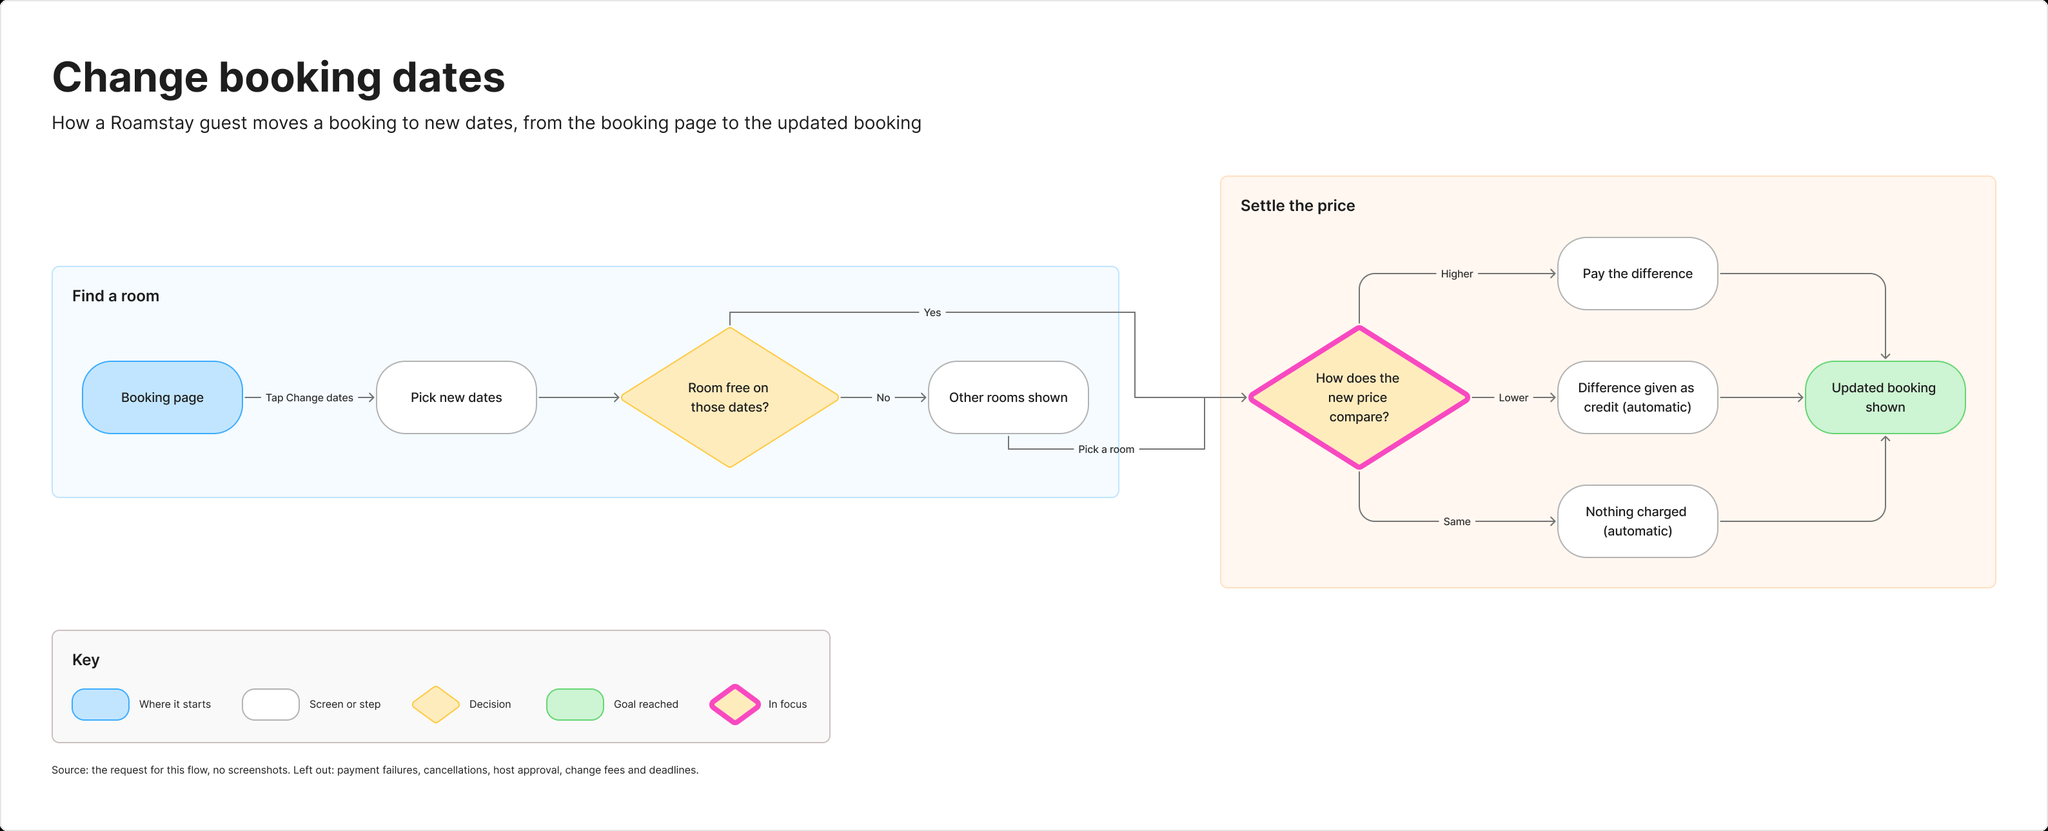
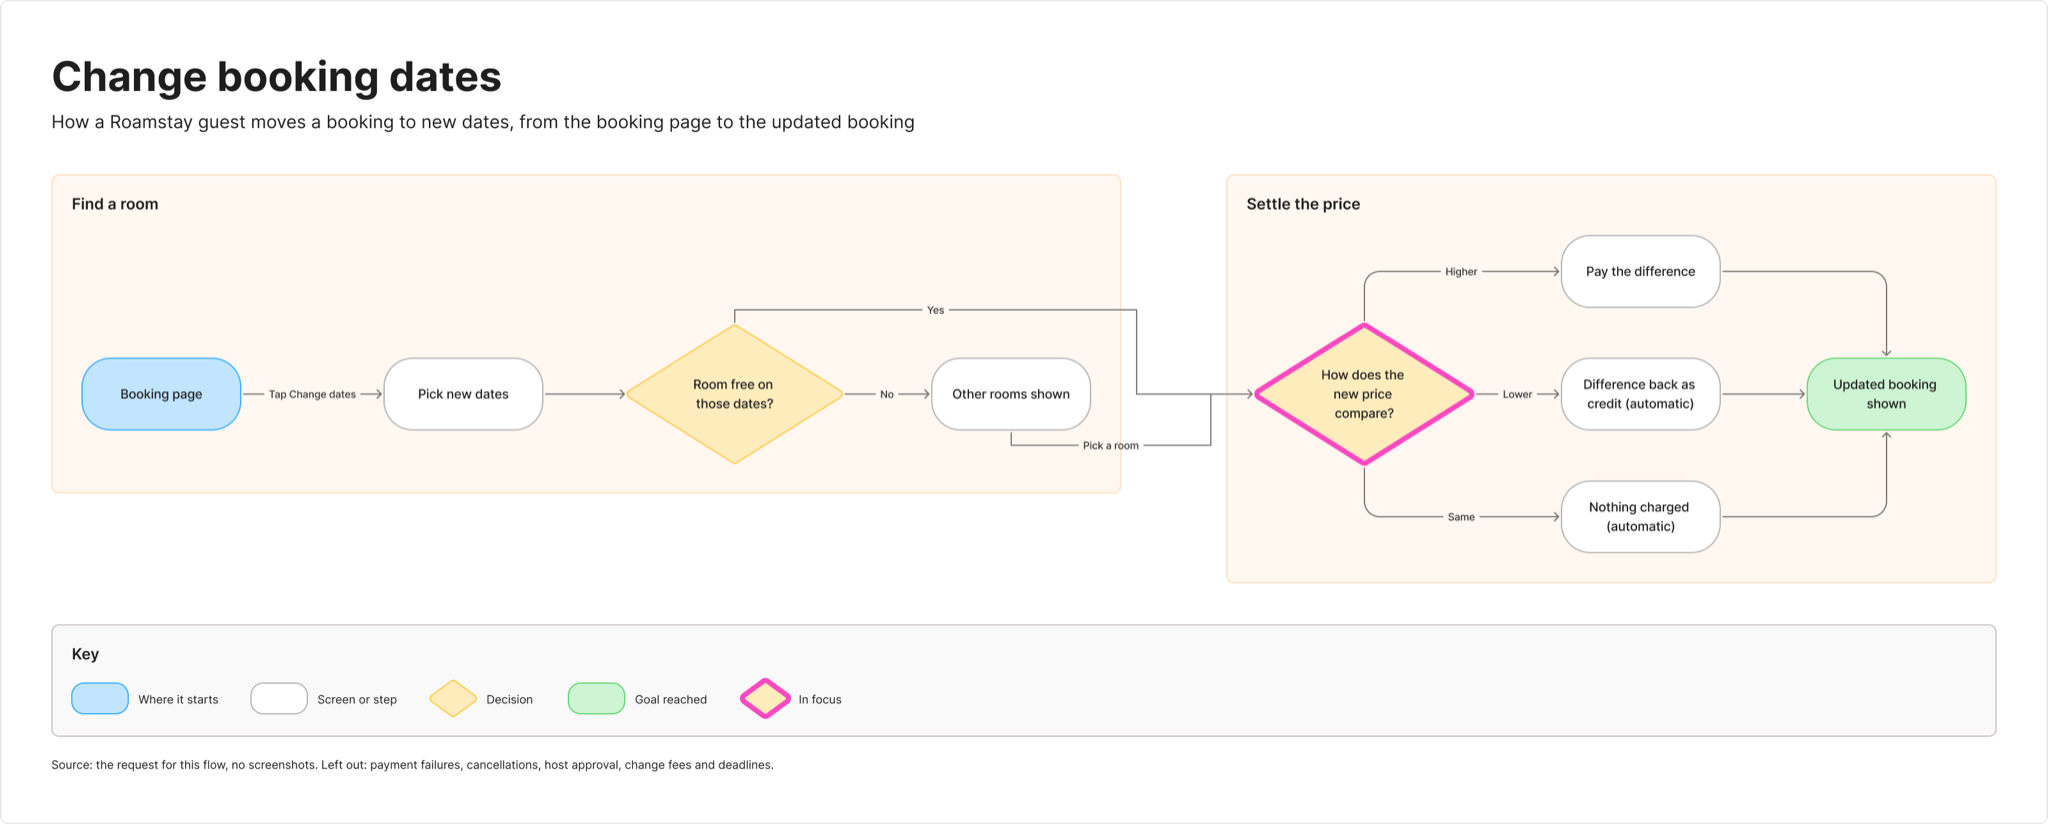
docs(product-owner): redraw four FigJam gallery boards from their best run
The gantt and ER images predated the dependency arrows and end marks, and
the existing-board and dense-flow images predated the design file. Each is
now the model its best run checked, composed again with the v1.0.4.0
composer on the test file and rendered at 2048 px, each with 0 warnings.
The dense flow's model took the two changes today's check asks for: one
accent on the price decision and a shorter credit label. The captions keep
each run's score and say the redraws were not graded, and the gantt
caption names where an arrow crosses a bar end.

Spec: 017-figjam-flow-generation/038-figjam-model-comparison
Commit-Id: 0000116

diff --git a/sk-create-figjam/assets/screenshots/README.md b/sk-create-figjam/assets/screenshots/README.md
@@ -5,7 +5,7 @@ trigger_phrases:
   - "figjam board screenshots"
   - "figjam gallery"
   - "sk-create-figjam examples images"
-version: 1.0.2.0
+version: 1.0.3.0
 ---
 
 # sk-create-figjam - Board Screenshots
@@ -18,7 +18,7 @@ version: 1.0.2.0
 
 The skill composed every board here on a fictional test file, with invented brands such as Roamstay, Loomlist and Fernhouse. Each board was then rendered through the Figma REST API as an overview image with its longest edge at 2048 px or less. Each one was graded on the 22-point board scorecard in [`../../manual-testing-playbook/manual-testing-playbook.md`](../../manual-testing-playbook/manual-testing-playbook.md).
 
-The seven type boards come from the [three-model comparison](../../../benchmark/reports/2026-10-25--manual-testing-playbook--figjam-model-comparison/README.md), which ran each board-quality scenario on DeepSeek V4.1 Flash Max, GLM 5.3 Flash Max and SWE 2 Max with the design file `../figjam-design.md`. Each image is the best of the three: the most of the 16 points the two zooms score, then the highest total, then a pass, then the grader's rank. The last two boards come from earlier runs and predate the design file.
+The seven type boards come from the [three-model comparison](../../../benchmark/reports/2026-10-25--manual-testing-playbook--figjam-model-comparison/README.md), which ran each board-quality scenario on DeepSeek V4.1 Flash Max, GLM 5.3 Flash Max and SWE 2 Max with the design file `../figjam-design.md`. Each image is the best of the three: the most of the 16 points the two zooms score, then the highest total, then a pass, then the grader's rank. Four images were drawn again on 2026-10-26 from the model their best run checked, with the v1.0.4.0 composer and the shipped design file. The gantt and ER boards now show the dependency arrows and the end marks the run's composer lacked, and the last two boards came from earlier runs drawn before the design file. Each caption keeps the score its run gave the original board, and no grader scored the redraws.
 
 ---
 
@@ -29,10 +29,10 @@ The seven type boards come from the [three-model comparison](../../../benchmark/
 - [`architecture-board.png`](architecture-board.png): architecture, from [FJ-024](../../manual-testing-playbook/board-quality/architecture-board-quality.md), SWE 2 Max, 22 of 22
 - [`sequence-board.png`](sequence-board.png): sequence, from [FJ-025](../../manual-testing-playbook/board-quality/sequence-board-quality.md), GLM 5.3 Flash Max, 22 of 22
 - [`state-board.png`](state-board.png): state diagram, from [FJ-026](../../manual-testing-playbook/board-quality/state-board-quality.md), GLM 5.3 Flash Max, 22 of 22
-- [`er-board.png`](er-board.png): ER diagram, from [FJ-027](../../manual-testing-playbook/board-quality/er-board-quality.md), SWE 2 Max, 22 of 22
-- [`gantt-board.png`](gantt-board.png): gantt chart, from [FJ-028](../../manual-testing-playbook/board-quality/gantt-board-quality.md), GLM 5.3 Flash Max, 22 of 22
-- [`state-on-existing-board.png`](state-on-existing-board.png): state diagram written onto a board that already held content, from [FJ-032](../../manual-testing-playbook/board-creation/existing-board-with-content.md) on its second recheck, 22 of 22
-- [`dense-flow-board.png`](dense-flow-board.png): user flow at the 9-node budget with a three-way decision, from [FJ-036](../../manual-testing-playbook/board-creation/dense-flow-at-budget.md) on its recheck, 21 of 22
+- [`er-board.png`](er-board.png): ER diagram, from [FJ-027](../../manual-testing-playbook/board-quality/er-board-quality.md), SWE 2 Max, 22 of 22, drawn again with its end marks
+- [`gantt-board.png`](gantt-board.png): gantt chart, from [FJ-028](../../manual-testing-playbook/board-quality/gantt-board-quality.md), GLM 5.3 Flash Max, 22 of 22, drawn again with its dependency arrows
+- [`state-on-existing-board.png`](state-on-existing-board.png): state diagram written onto a board that already held content, from [FJ-032](../../manual-testing-playbook/board-creation/existing-board-with-content.md) on its second recheck, 22 of 22, drawn again in the design file
+- [`dense-flow-board.png`](dense-flow-board.png): user flow at the 9-node budget with a three-way decision, from [FJ-036](../../manual-testing-playbook/board-creation/dense-flow-at-budget.md) on its recheck, 21 of 22. Drawn again in the design file after two changes the current check asks for: the one accent stays on the price decision and the credit label is shortened to Difference back as credit (automatic). The point the recheck lost is the Pick a room line joining the Yes line just before the price decision, which the redraw keeps
 
 ---
 

diff --git a/sk-create-figjam/README.md b/sk-create-figjam/README.md
@@ -26,7 +26,7 @@ It draws seven types, each answering one reader question: a user flow, a laned p
 
 ## 2. GALLERY
 
-Real boards this packet composed on a fictional test file and rendered through the Figma REST API. Each type board is the best of three models in the 2026-10-25 model comparison, drawn in the shipped design file. [`assets/screenshots/README.md`](assets/screenshots/README.md) names the playbook scenario, the model and the scorecard result behind each one.
+Real boards this packet composed on a fictional test file and rendered through the Figma REST API. Each type board is the best of three models in the 2026-10-25 model comparison, drawn in the shipped design file. The gantt, ER and last two boards were drawn again from their best run's model with the current composer. [`assets/screenshots/README.md`](assets/screenshots/README.md) names the playbook scenario, the model and the scorecard result behind each one.
 
 **User flow.** The pink outline on the green Return confirmed with QR code goal is the first glance. Three zones run left to right, each decision is a yellow diamond with labelled exits and the orange Contact support pill shows where the flow leaves.
 
@@ -48,15 +48,15 @@ Real boards this packet composed on a fictional test file and rendered through t
 
 ![A state board for a booking status with a nested Confirmed state](assets/screenshots/state-board.png)
 
-**ER.** A Guest side zone and a Partner side zone keep the two halves apart. Each entity lists its PK, FK and UK columns with types, each line names the relationship with its cardinality and Booking carries the pink outline.
+**ER.** A Guest side zone and a Partner side zone keep the two halves apart. Each entity lists its PK, FK and UK columns with types. Each line names the relationship with its cardinality and carries the matching crow's-foot mark at both ends. Booking carries the pink outline.
 
 ![An ER board with six entities split into guest and partner zones](assets/screenshots/er-board.png)
 
-**Gantt.** A weekly date axis runs across the top and Design, Build and Launch are tinted zones. Each bar shows its length, the critical integration week carries the pink outline and a yellow diamond marks the release on 21 December. The source line names the platform left out.
+**Gantt.** A weekly date axis runs across the top and Design, Build and Launch are tinted zones. Each bar shows its length, the critical integration week carries the pink outline and a yellow diamond marks the release on 21 December. An arrow runs from each bar to the work that waits on it. Each arrow drops into the middle of the bar that waits, so the design arrow crosses the end of Sync engine, which ends on the day it drops. The source line names the platform left out.
 
 ![A gantt board for a launch plan with three phases and a release milestone](assets/screenshots/gantt-board.png)
 
-**Written onto an existing board.** This state diagram was added to a board that already held content, which the write left in place. The overview shows the new section only. Completed carries the pink outline as the first glance this time, because the gate planned it first.
+**Written onto an existing board.** In FJ-032 this state diagram was added to a board that already held content, which the write left in place. The overview shows the new section only. Completed carries the pink outline as the first glance this time, because the gate planned it first.
 
 ![A state board for a booking lifecycle written onto a board with existing content](assets/screenshots/state-on-existing-board.png)
 

diff --git a/sk-create-figjam/changelog/v1.0.4.0.md b/sk-create-figjam/changelog/v1.0.4.0.md
@@ -32,6 +32,7 @@ The three-model comparison in `benchmark/reports/2026-10-25--manual-testing-play
 - `compose_board.py --self-test` proves each dependency is one arrow from the bar it waits on and each ER end carries the mark its model names, 1,029 checks in all
 - The compact composer grew from 46,569 to 47,148 characters, so the model JSON and the `THEME` line have about 2,850 characters of room in one `use_figma` call, down from about 3,400. The largest shipped example model runs about 2,300
 - The gallery's process image is SWE 2 Max's FJ-023 board, which carries the accent on the step the request named, after the comparison's gallery rule moved to rank the board points first
+- The gallery's gantt, ER, existing-board and dense-flow images were drawn again from their best run's model with this composer. The gantt and ER images now show the arrows and the end marks, and the other two the design file. The dense flow's model took the two changes today's check asks for, one accent and a shorter credit label
 
 ## Upgrade
 

diff --git a/benchmark/reports/2026-10-25--manual-testing-playbook--figjam-model-comparison/README.md b/benchmark/reports/2026-10-25--manual-testing-playbook--figjam-model-comparison/README.md
@@ -94,6 +94,8 @@ The seven type images in `sk-create-figjam/assets/screenshots/` are the gallery 
 
 The rule as first written ranked on the total first, so a reply point or a temporary file could decide an image. It gave FJ-023 to DeepSeek's board, which carries the accent on Book a courier pickup. The amendment moved that image to SWE's board, which takes all 16 board points with the accent on Approve the claim, and no other image changed.
 
+After the composer gained gantt arrows and ER end marks, the FJ-027 and FJ-028 images were drawn again from the model the winning run checked, so they are no longer the renders in `renders/`. Their scores are the original boards' scores, and the redraws were not graded.
+
 ---
 
 ## 6. Grading notes and deviations
